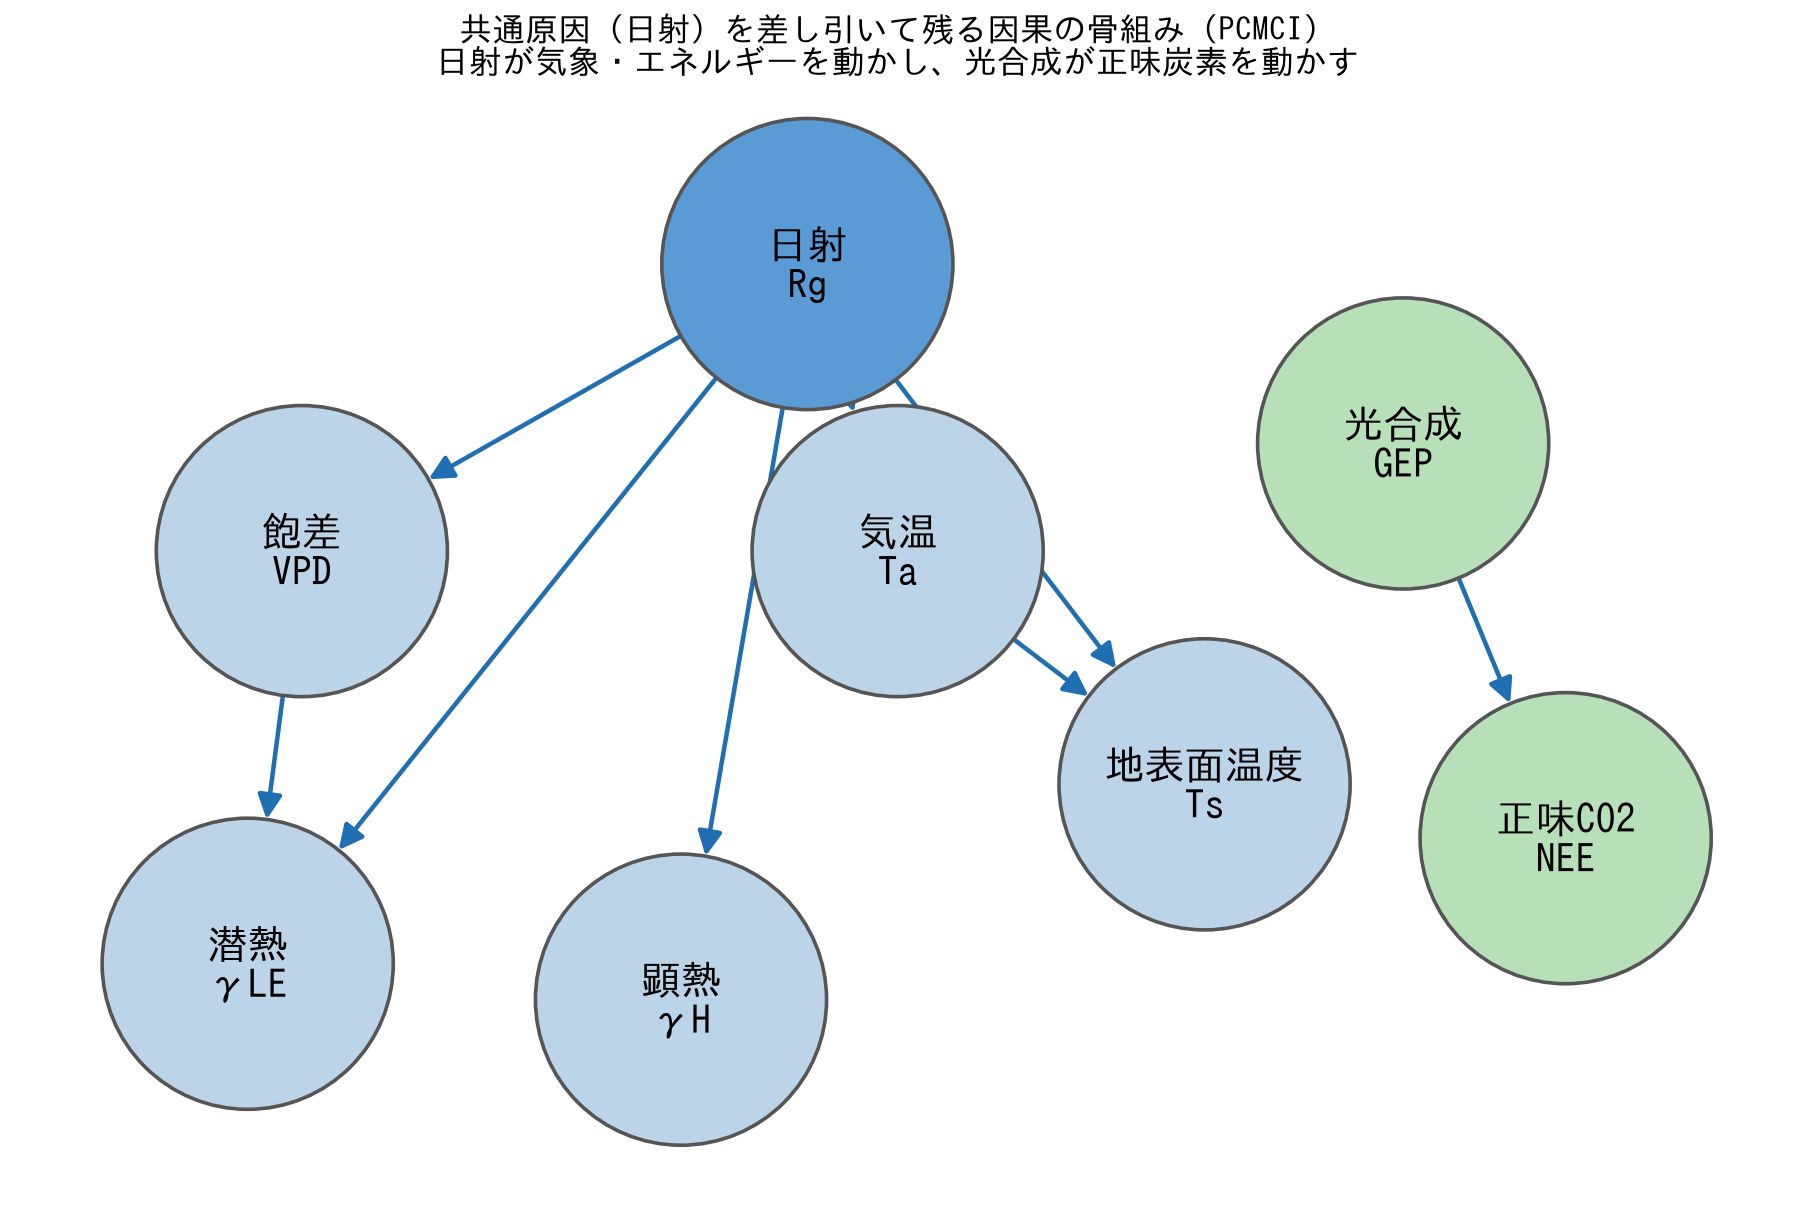
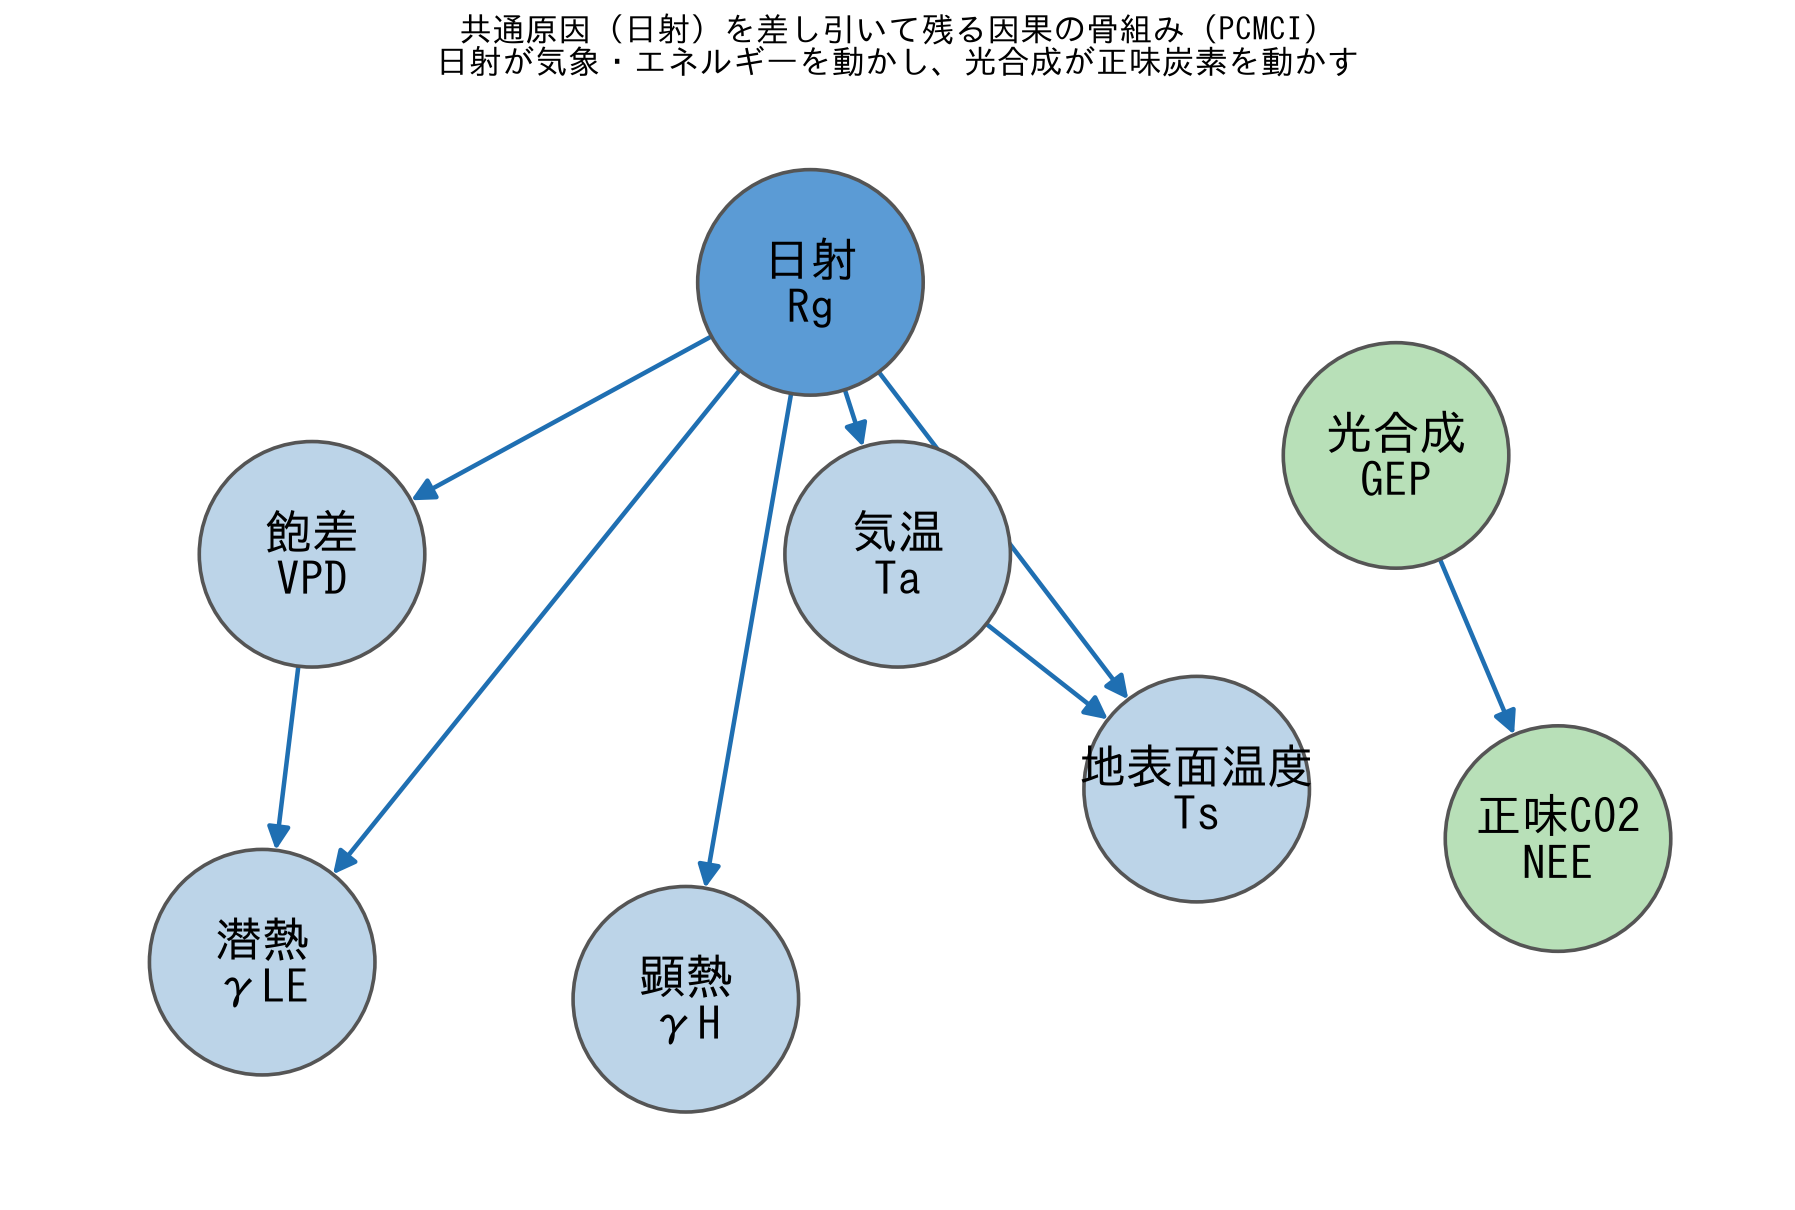
fig3の円を0.6倍に縮小し文字を相対的に拡大（配置も詰めて調整）

diff --git a/scripts/make_slides_figs.py b/scripts/make_slides_figs.py
@@ -105,9 +105,9 @@ def fig_pid():
 # Fig 3: PCMCI causal skeleton (JP-Tak forest)
 # ---------------------------------------------------------------------------
 def fig_skeleton():
-    # 円を大きくするため配置を広げ、円が重ならないように離す
-    pos = {"Rg":(0,3.0), "VPD":(-2.8,1.4), "Ta":(0.5,1.4), "gLE":(-3.1,-0.9),
-           "gH":(-0.7,-1.1), "Ts":(2.2,0.1), "GEP":(3.3,2.0), "NEE":(4.2,-0.2)}
+    # 円は小さめ（0.6倍）、文字は大きく。配置は少し詰める。
+    pos = {"Rg":(0,2.1), "VPD":(-2.0,1.0), "Ta":(0.35,1.0), "gLE":(-2.2,-0.65),
+           "gH":(-0.5,-0.8), "Ts":(1.55,0.05), "GEP":(2.35,1.4), "NEE":(3.0,-0.15)}
     edges = [("Rg","VPD"),("Rg","Ta"),("Rg","gLE"),("Rg","gH"),("Rg","Ts"),
              ("Ta","Ts"),("VPD","gLE"),("GEP","NEE")]
     # 日本語（正式名称）＋アルファベット略号の2段表示
@@ -119,18 +119,18 @@ def fig_skeleton():
     # 統一配色（青＋緑のみ）：日射＝共通原因(濃い青)、光合成・正味CO2＝直接残る炭素(緑)、その他気象＝薄青
     ncol = ["#5b9bd5" if n=="Rg" else (C_REAL_LIGHT if n in ("GEP","NEE")
             else C_APP_LIGHT) for n in G.nodes]
-    NS = 26000  # 円を大きく（文字が収まるように）
+    NS = 15600  # 円は 0.6 倍（26000→15600）
     nx.draw_networkx_nodes(G, pos, node_size=NS, node_color=ncol,
                            edgecolors="#555", linewidths=2, ax=ax)
-    nx.draw_networkx_labels(G, pos, labels=labels, font_size=22,
+    nx.draw_networkx_labels(G, pos, labels=labels, font_size=26,
                             font_family=JP.get_name(), ax=ax)
-    nx.draw_networkx_edges(G, pos, arrowstyle="-|>", arrowsize=28,
+    nx.draw_networkx_edges(G, pos, arrowstyle="-|>", arrowsize=26,
                            width=2.5, edge_color=BLUE,
                            node_size=NS, ax=ax)
     ax.set_title("共通原因（日射）を差し引いて残る因果の骨組み（PCMCI）\n"
                  "日射が気象・エネルギーを動かし、光合成が正味炭素を動かす",
                  fontsize=18)
-    ax.set_xlim(-4.4, 5.4); ax.set_ylim(-2.2, 4.0)
+    ax.set_xlim(-3.2, 3.9); ax.set_ylim(-1.6, 2.9)
     ax.axis("off")
     fig.savefig(OUT/"fig3_causal_skeleton.png", bbox_inches="tight"); plt.close(fig)
 
